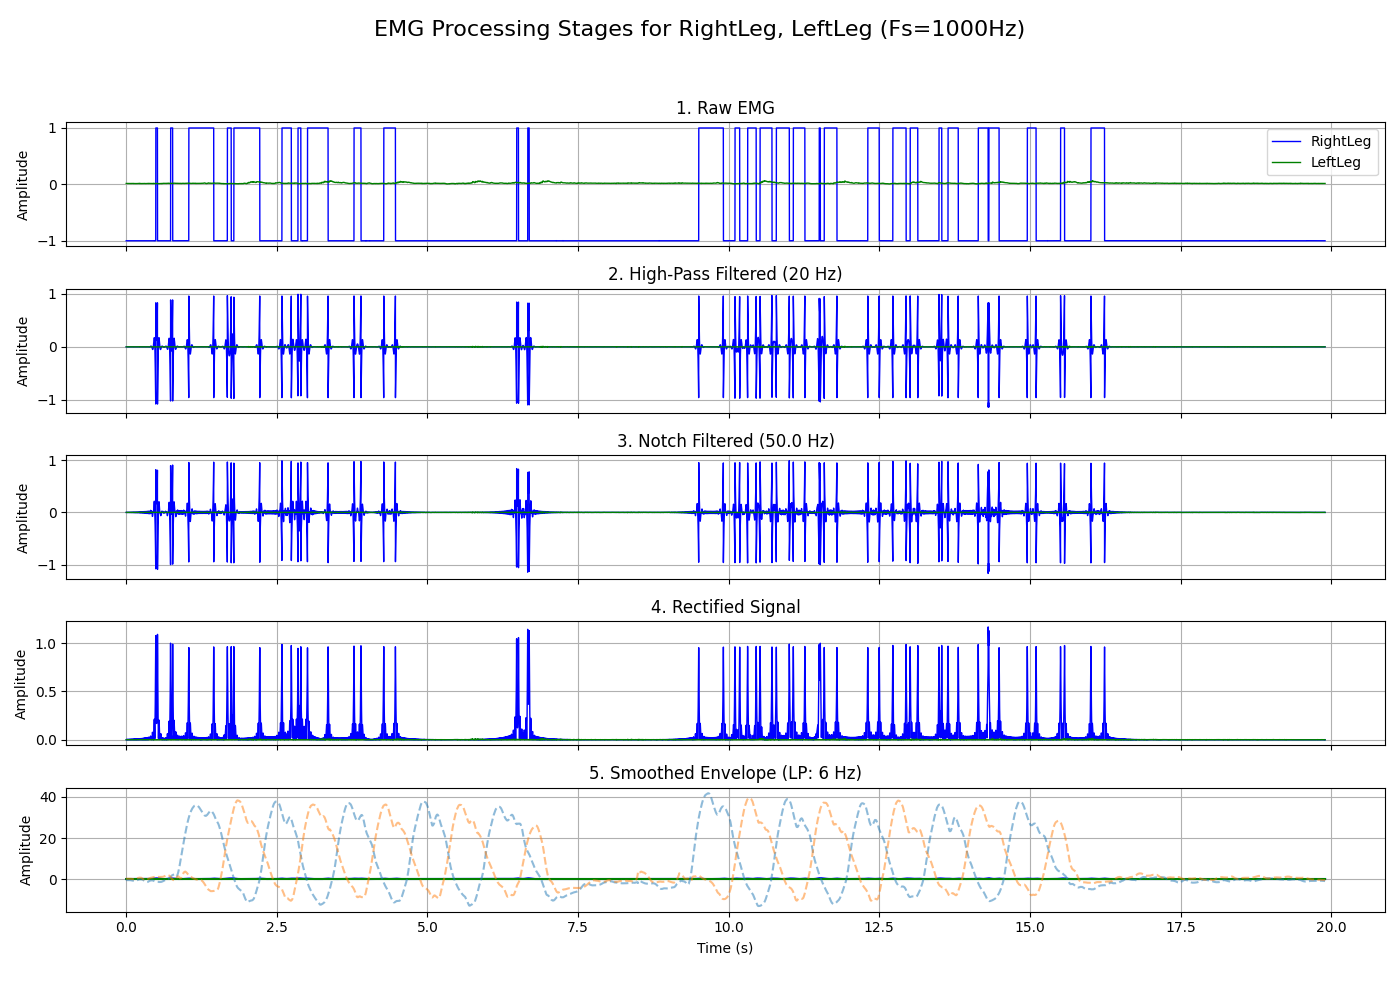
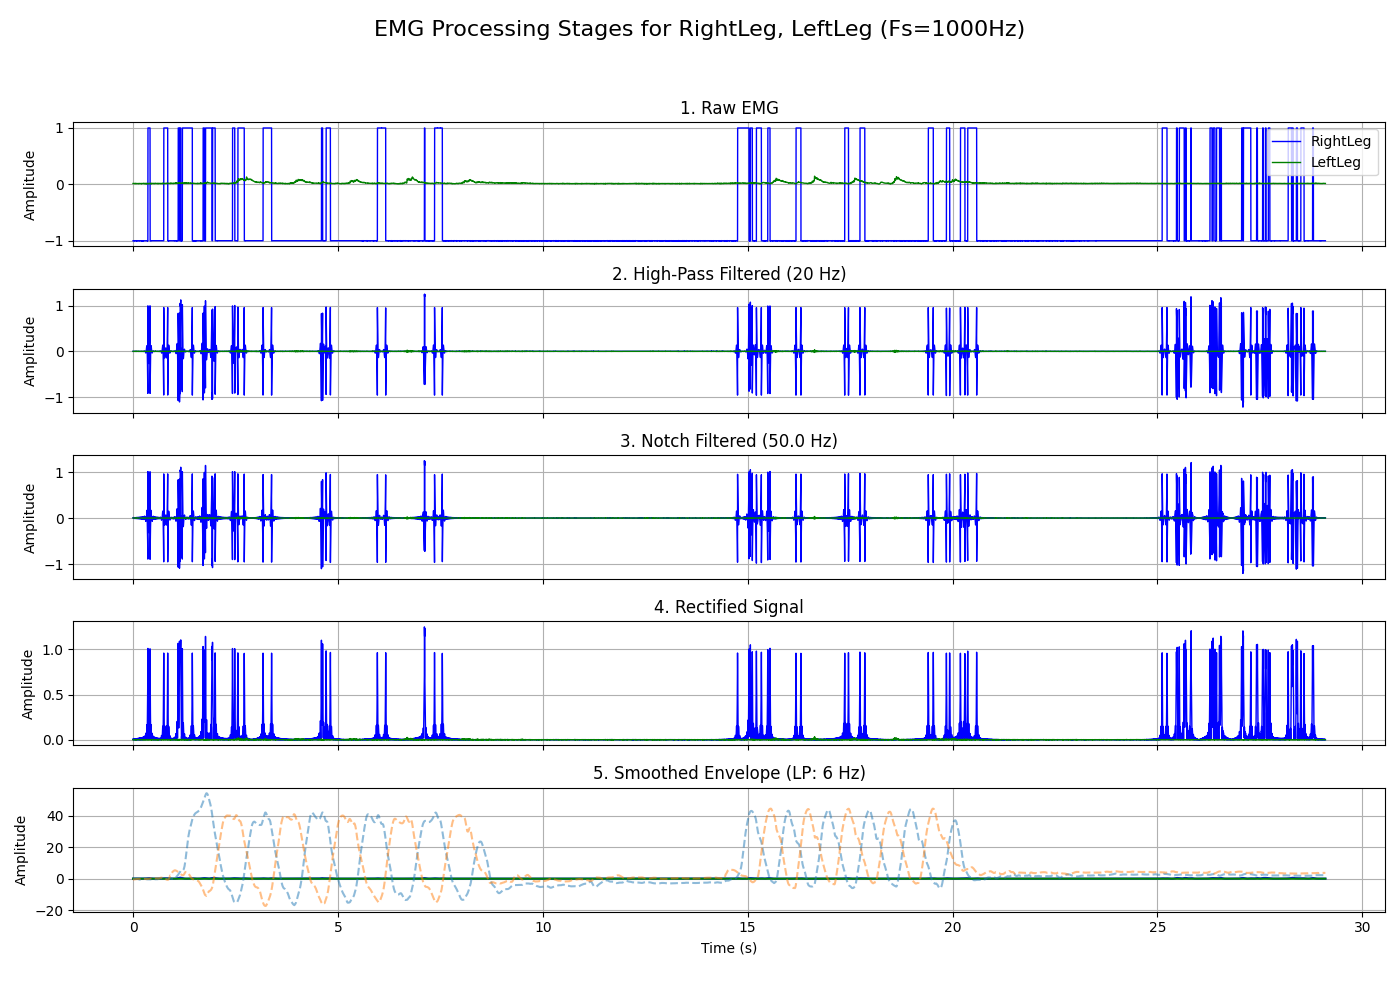
add MVIC coefficient estimator script

diff --git a/src/MVIC_Estimator.py b/src/MVIC_Estimator.py
@@ -1,0 +1,164 @@
+# HAR_FinalProject/src/MVIC_Estimator.py
+
+import pandas as pd
+import numpy as np
+from scipy import signal
+import matplotlib.pyplot as plt # Optional: for plotting the envelope to verify
+
+# --- Step 1: Import your existing configurations and processing functions ---
+# Assuming your config.py and emg_processing.py are in the same directory or accessible
+import config as py_config # Rename to avoid clash with C 'config' if running in same mindset
+from emg_processing import process_single_emg_channel # Your existing function
+
+def get_sos_coefficients_and_print_c_array(filter_type_name, order, cutoff, fs, filter_btype='lowpass'):
+    """
+    Calculates SOS coefficients for a Butterworth filter and prints them in C array format.
+    For Notch, use get_notch_coefficients_and_print_c_array.
+    """
+    sos_coeffs = signal.butter(order, cutoff, filter_btype, fs=fs, output='sos')
+    print(f"--- {filter_type_name} (Order: {order}, Cutoff: {cutoff}Hz, Fs: {fs}Hz) ---")
+    print(f"#define NUM_{filter_type_name.upper().replace('-', '_').replace(' ', '_')}_SOS_SECTIONS {len(sos_coeffs)}")
+    print(f"const float {filter_type_name.upper().replace('-', '_').replace(' ', '_')}_SOS_COEFFS[NUM_{filter_type_name.upper().replace('-', '_').replace(' ', '_')}_SOS_SECTIONS][5] = {{")
+    for i, section in enumerate(sos_coeffs):
+        # Scipy SOS row: [b0, b1, b2, a0, a1, a2]
+        # C implementation expects: {b0, b1, b2, a1_c, a2_c}
+        # where y[n] = b0x + b1x1 + b2x2 - a1_c*y1 - a2_c*y2
+        # If a0 from Scipy is 1 (section[3]), then:
+        # a1_c = section[4] (Scipy's a1)
+        # a2_c = section[5] (Scipy's a2)
+        # This assumes the C formula is y = ... - a1_c*y1 - a2_c*y2
+        # If the C formula is y = ... + a1_c*y1 + a2_c*y2, then signs of a1,a2 from scipy need to be flipped.
+        # The C code we outlined uses y = ... - a1_C*y1 - a2_C*y2.
+        # Scipy's 'a' coefficients in the denominator are for 1 + a1*z^-1 + a2*z^-2 ...
+        # So, for y[n] = ... -a1_formula*y[n-1] -a2_formula*y[n-2],
+        # a1_formula = scipy_a1, a2_formula = scipy_a2 from the SOS row's 5th and 6th elements.
+        
+        # Ensure signs are correct:
+        # Scipy's a coefficients for sosfilt are such that den = [a0, a1, a2, ...]
+        # y[n] = (b0x[n] + ... - a1y[n-1] - a2y[n-2] - ...)/a0
+        # Our C struct will store a1 and a2 such that:
+        # y[n] = b0x[n] + ... - stored_a1*y[n-1] - stored_a2*y[n-2]
+        # So, stored_a1 = scipy_sos_output[4] and stored_a2 = scipy_sos_output[5] (assuming scipy_sos_output[3] is a0=1)
+
+        b0, b1, b2, a0, a1_scipy, a2_scipy = section
+        if abs(a0 - 1.0) > 1e-6:
+            print(f"ERROR: a0 is not 1 for section {i+1}! Need to normalize or re-check C filter implementation.")
+            # If a0 is not 1, all b's and a's need to be divided by a0 for the C implementation
+            # b0_c, b1_c, b2_c = b0/a0, b1/a0, b2/a0
+            # a1_c, a2_c = a1_scipy/a0, a2_scipy/a0
+        
+        # These are the coefficients for the formula: y[n] = b0x + b1x1 + b2x2 - a1_C*y1 - a2_C*y2
+        # So, a1_C = a1_scipy, a2_C = a2_scipy from the sos array [b0,b1,b2,1,a1_scipy,a2_scipy]
+        print(f"    {{ {b0:.8f}f, {b1:.8f}f, {b2:.8f}f, {a1_scipy:.8f}f, {a2_scipy:.8f}f }}, // Section {i+1}")
+    print("};")
+    print("-" * 40)
+    return sos_coeffs
+
+def get_notch_coefficients_and_print_c_array(filter_type_name, notch_freq, Q, fs):
+    """
+    Calculates Notch filter coefficients (b,a) and prints them in C SOS array format.
+    """
+    b_notch, a_notch = signal.iirnotch(notch_freq, Q, fs=fs)
+    print(f"--- {filter_type_name} (Freq: {notch_freq}Hz, Q: {Q}, Fs: {fs}Hz) ---")
+    if abs(a_notch[0] - 1.0) < 1e-6: # Check if a0 from a_notch is 1
+        print(f"#define NUM_{filter_type_name.upper().replace('-', '_').replace(' ', '_')}_SOS_SECTIONS 1")
+        print(f"const float {filter_type_name.upper().replace('-', '_').replace(' ', '_')}_SOS_COEFFS[NUM_{filter_type_name.upper().replace('-', '_').replace(' ', '_')}_SOS_SECTIONS][5] = {{")
+        # b_notch = [b0, b1, b2]
+        # a_notch = [a0, a1, a2] where a0=1
+        # C implementation expects: {b0, b1, b2, a1_c, a2_c} for y[n] = ... - a1_c*y1 - a2_c*y2
+        # So, a1_c = a_notch[1], a2_c = a_notch[2]
+        print(f"    {{ {b_notch[0]:.8f}f, {b_notch[1]:.8f}f, {b_notch[2]:.8f}f, {a_notch[1]:.8f}f, {a_notch[2]:.8f}f }} // Section 1")
+        print("};")
+        # Return in SOS format for consistency if needed, though it's just one section
+        sos_notch_manual = np.array([[b_notch[0], b_notch[1], b_notch[2], a_notch[1], a_notch[2]]])
+    else:
+        print(f"ERROR: Notch filter a0 coefficient is not 1 ({a_notch[0]}). Manual conversion or different C implementation needed.")
+        print(f"b_notch: {b_notch}")
+        print(f"a_notch: {a_notch}")
+        sos_notch_manual = None
+    print("-" * 40)
+    return sos_notch_manual
+
+
+if __name__ == "__main__":
+    print("Starting MVIC Estimator and Coefficient Generator...\n")
+
+    # --- Part 1: Generate Filter Coefficients ---
+    # Use parameters from your py_config (which should mirror what you want in C)
+    fs = py_config.SAMPLING_RATE
+
+    # High-Pass Filter
+    hpf_order = py_config.HIGHPASS_FILTER_PARAMS["order"]
+    hpf_cutoff = py_config.HIGHPASS_FILTER_PARAMS["cutoff"]
+    get_sos_coefficients_and_print_c_array("HPF", hpf_order, hpf_cutoff, fs, filter_btype='highpass')
+
+    # Notch Filter
+    notch_freq = py_config.NOTCH_FILTER_PARAMS["freq"]
+    notch_q = py_config.NOTCH_FILTER_PARAMS["quality_factor"]
+    get_notch_coefficients_and_print_c_array("NOTCH", notch_freq, notch_q, fs)
+    
+    # Low-Pass Filter (Envelope)
+    lpf_order = py_config.LOWPASS_ENVELOPE_FILTER_PARAMS["order"]
+    lpf_cutoff = py_config.LOWPASS_ENVELOPE_FILTER_PARAMS["cutoff"]
+    get_sos_coefficients_and_print_c_array("LPF", lpf_order, lpf_cutoff, fs, filter_btype='lowpass')
+
+
+    # --- Part 2: Estimate Max Envelope (MVIC Proxy) ---
+    print("\n--- Max Envelope Estimation (MVIC Proxy) ---")
+    
+    # Path to your best recorded data file
+    data_filepath = py_config.DEFAULT_DATA_FILEPATH # Use the path from your config
+    # If your config has a different name, use that, e.g., "../data/raw/converted_data1.csv"
+    
+    print(f"Loading data from: {data_filepath}")
+    raw_data_df = pd.read_csv(data_filepath)
+
+    if raw_data_df is None:
+        print("Could not load data file. Skipping MVIC estimation.")
+    else:
+        emg_cols_to_analyze = py_config.EMG_COLUMNS # e.g., {"RightLeg": "emg_R1", "LeftLeg": "emg_L1"}
+        max_envelopes = {}
+
+        for leg_label, col_name in emg_cols_to_analyze.items():
+            if col_name and col_name in raw_data_df.columns:
+                print(f"\nProcessing {leg_label} (column: {col_name}) for max envelope...")
+                raw_emg_signal = raw_data_df[col_name].values
+
+                # Use your existing EMG processing pipeline
+                # process_single_emg_channel should return: raw, hp, notch, rect, envelope
+                _, _, _, _, envelope = process_single_emg_channel(
+                    raw_emg_signal,
+                    fs=py_config.SAMPLING_RATE, # from your python config
+                    hp_params=py_config.HIGHPASS_FILTER_PARAMS,
+                    notch_params=py_config.NOTCH_FILTER_PARAMS,
+                    lp_params=py_config.LOWPASS_ENVELOPE_FILTER_PARAMS
+                )
+                
+                current_max_env = np.max(envelope)
+                max_envelopes[leg_label] = current_max_env
+                print(f"Max UNNORMALIZED envelope for {leg_label}: {current_max_env:.4f}")
+
+                # Optional: Plot to verify
+                # plt.figure(figsize=(10,4))
+                # time_axis = np.arange(len(raw_emg_signal)) / fs
+                # plt.plot(time_axis, raw_emg_signal, label=f"Raw {leg_label}", alpha=0.5)
+                # plt.plot(time_axis, envelope, label=f"Envelope {leg_label}", color='red')
+                # plt.title(f"EMG and Envelope for {leg_label} - Max Env: {current_max_env:.4f}")
+                # plt.xlabel("Time (s)")
+                # plt.ylabel("Amplitude")
+                # plt.legend()
+                # plt.grid(True)
+                # plt.show()
+            elif col_name:
+                print(f"Column '{col_name}' for {leg_label} not found in CSV. Skipping.")
+
+        print("\n--- Suggested MVIC_VALUES for C code (use these in MyEMG_Controller_Init): ---")
+        for leg, max_val in max_envelopes.items():
+            # Add a small buffer, or use as is. Consider if the max was an outlier.
+            # A common practice is to take e.g., 95th percentile or average of top N peaks.
+            # For simplicity, we'll use the raw max, but you might want to be more conservative.
+            print(f"myEmgController.{leg_label.lower()}_leg.mvic_value = {max_val:.4f}f;")
+        if not max_envelopes:
+            print("No EMG columns were processed to estimate MVICs.")
+
+    print("\nScript finished. Copy the printed SOS coefficients and MVIC estimates into your C code.")

diff --git a/src/config.py b/src/config.py
@@ -18,7 +18,7 @@ LOWPASS_ENVELOPE_FILTER_PARAMS = {
 }
 
 # --- Data File and Column Configuration ---
-DEFAULT_DATA_FILEPATH = "data/raw/converted_data7.csv"
+DEFAULT_DATA_FILEPATH = "data/raw/converted_data9.csv"
 EMG_COLUMNS = {
     "RightLeg": "emg_R1",
     "LeftLeg": "emg_L1"
